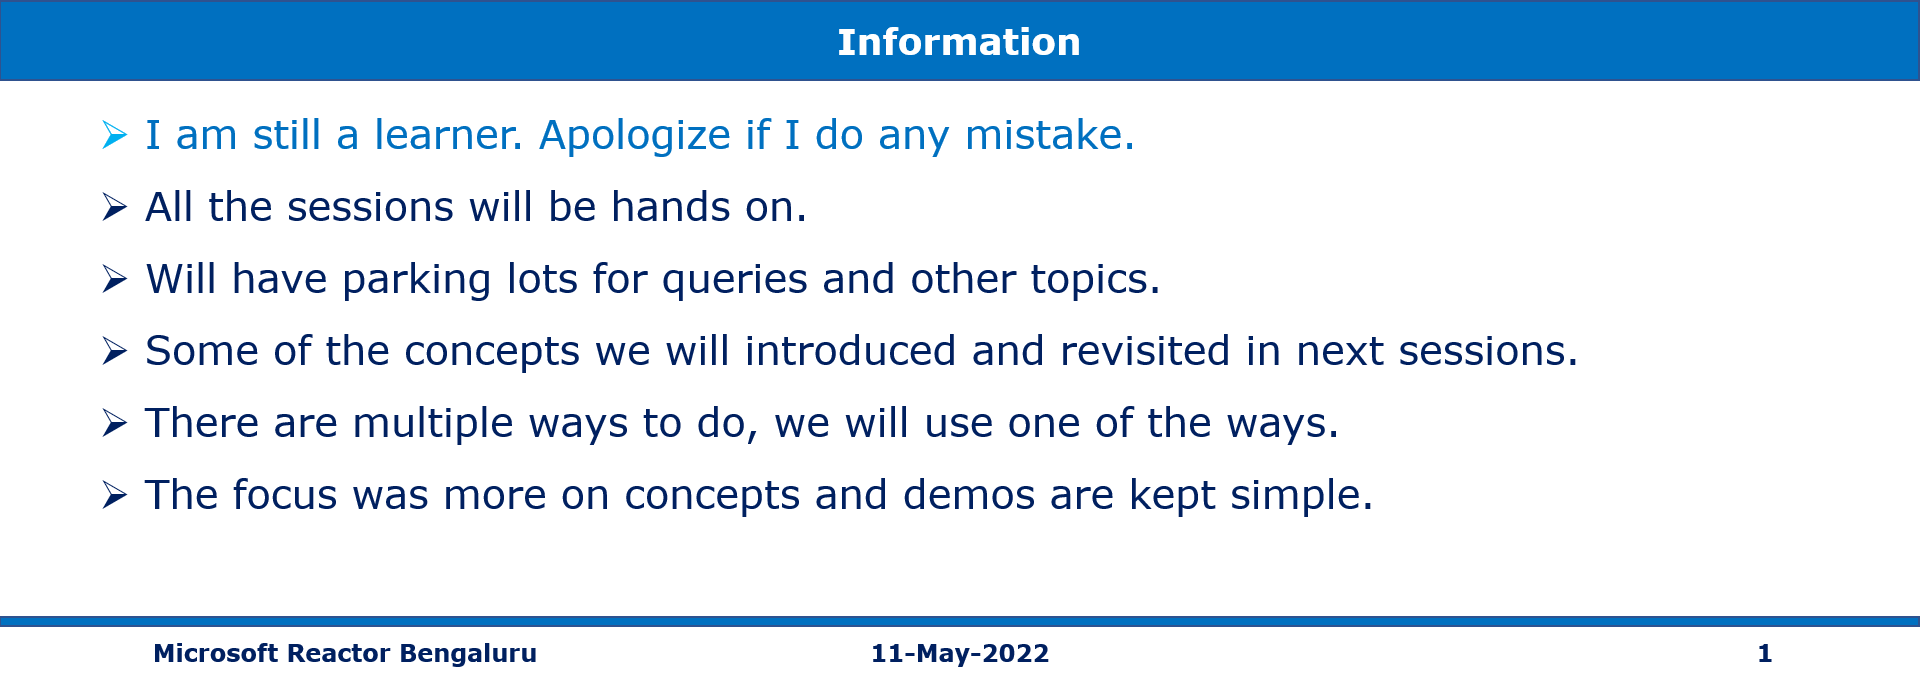
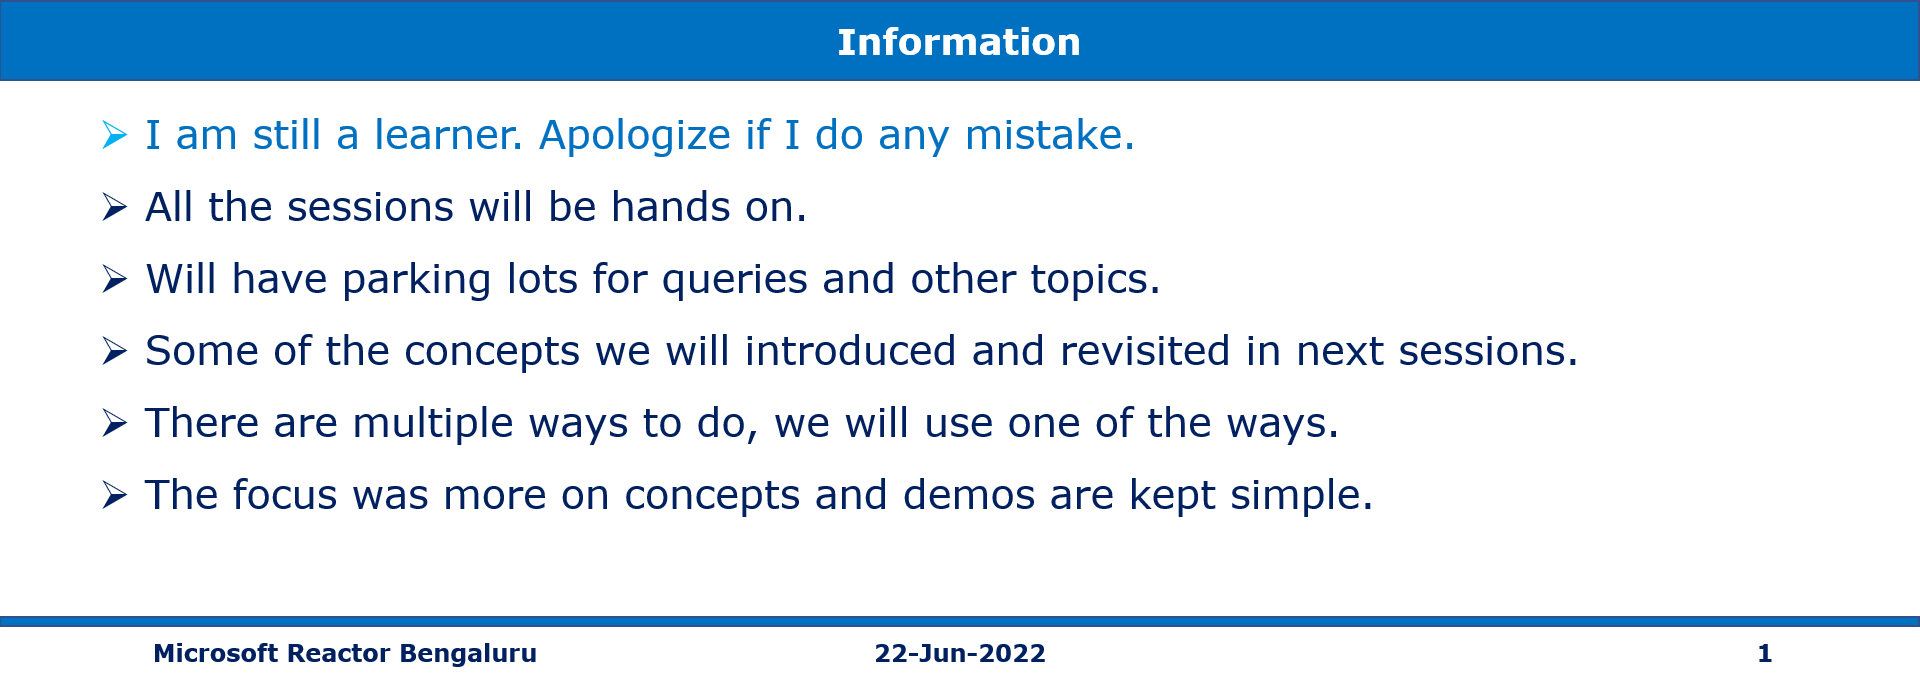
Updates

diff --git a/microsoft-reactor/S17_2022Jun22_AzureCosmosDB/README.md b/microsoft-reactor/S17_2022Jun22_AzureCosmosDB/README.md
@@ -44,12 +44,12 @@
 > 1. Explore Azure Cosmos DB
 > 1. Implement partitioning in Azure Cosmos DB
 > 1. Work with Azure Cosmos DB
-> 1. Mini Project
+> 1. Mini Project(s)
 > 1. Q & A
 
 ### [MS Learn Module](https://docs.microsoft.com/en-us/learn/paths/az-204-develop-solutions-that-use-azure-cosmos-db/)
 
-### [Source code for today's session](https://github.com/vishipayyallore/blazorwasm-dot-net6-containerized)
+### [Source code for today's session](https://github.com/vishipayyallore/speaker-series-2022/tree/main/microsoft-reactor/S17_2022Jun22_AzureCosmosDB)
 
 ---
 
@@ -57,59 +57,21 @@
 
 ---
 
-## Explore Azure Cache for Redis
-
-> 1. Discussion and Demo
-> 1. Few scenarios
-> 1. Service tiers
-> 1. Security Considerations
-
-Reference: [Azure Cache for Redis/](https://docs.microsoft.com/en-us/learn/modules/develop-for-azure-cache-for-redis/)
-
-## Configure Azure Cache for Redis
+## Explore Azure Cosmos DB
 
 > 1. Discussion and Demo
 
-![Azure Cache for Redis | 100x100](./Documentation/Images/AzureCacheRedis_1.PNG)
-
-## Interact with Azure Cache for Redis by using .NET
+## Implement partitioning in Azure Cosmos DB
 
 > 1. Discussion and Demo
 
-![Azure Cache for Redis | 100x100](./Documentation/Images/AzureCacheRedis_2.PNG)
-
-## Cache Aside Pattern using Azure Cache for Redis by using .NET Core
+## Work with Azure Cosmos DB
 
 > 1. Discussion and Demo
 
-## Explore Azure Content Delivery Networks
+## Mini Project(s)
 
 > 1. Discussion and Demo
-
-## Control cache behavior on Azure Content Delivery Networks
-
-> 1. Discussion and Demo
-
-## Interact with Azure Content Delivery Networks by using .NET
-
-> 1. Discussion and Demo
-
-## Q & A
-
-> 1. Demo & Discussion
-> 1. We will store the Azure SQL Server secrets in Azure Key Vault
-
-**SqlServerConnectionString**
-
-```
-Server=tcp:YourServer.database.windows.net,1433;Initial Catalog=sqldb-booksstore;Persist Security Info=False;User ID=demouser;Password=YourPassword;MultipleActiveResultSets=False;Encrypt=True;TrustServerCertificate=False;Connection Timeout=30;
-```
-
-```
-https://YourKeyVault.vault.azure.net/secrets/SqlServerConnectionString/5038a0ac6f2c4dc6adb0098517c09253
-DataStoreSettings__SqlServerConnectionString
-@Microsoft.KeyVault(SecretUri=https://YourKeyVault.vault.azure.net/secrets/SqlServerConnectionString/5038a0ac6f2c4dc6adb0098517c09253)
-```
 
 ---
 
@@ -122,16 +84,12 @@ DataStoreSettings__SqlServerConnectionString
 
 ---
 
-## What is Next? (`Session 16` of `20 Sessions` on May 11, 2022)
+## What is Next? Session `18` of `21` Sessions on July 06, 2022
 
-### AZ-204 | Implement API Management
+### AZ-204 | Develop solutions that use Blob storage
 
-> 1. Discover the API Management service
-> 1. Explore API gateways
-> 1. Explore API Management policies
-> 1. Create advanced policies
-> 1. Secure APIs by using subscriptions
-> 1. Secure APIs by using certificates
-> 1. Create a backend API for .NET 6 Web APIs
-> 1. Create a backend API for Azure Functions
+> 1. Explore Azure Blob storage
+> 1. Manage the Azure Blob storage lifecycle
+> 1. Work with Azure Blob storage
+> 1. Mini Project(s)
 > 1. Q & A
